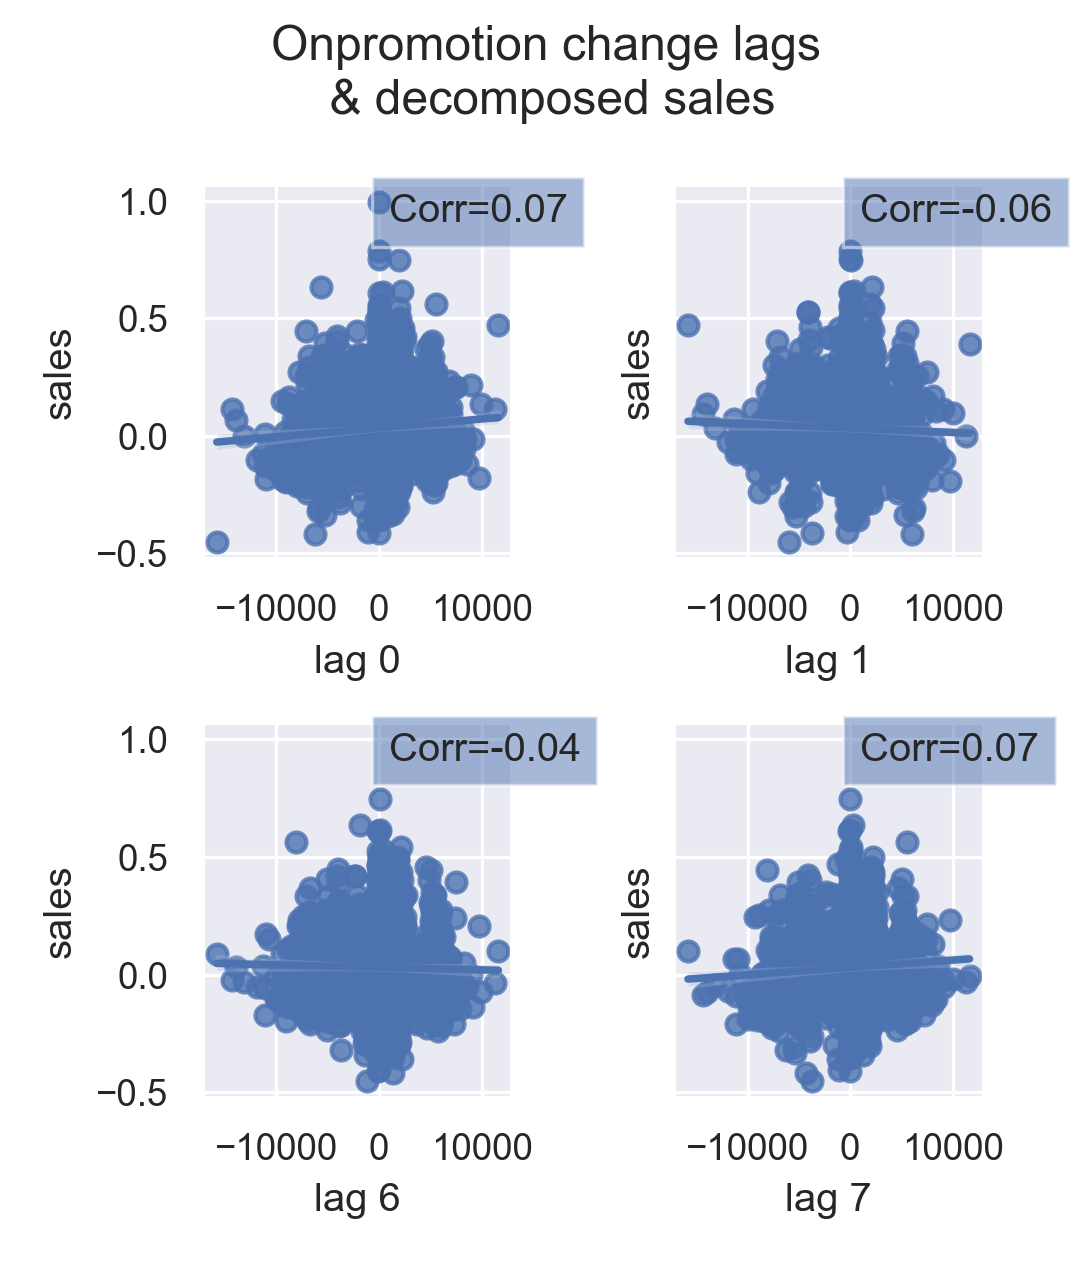
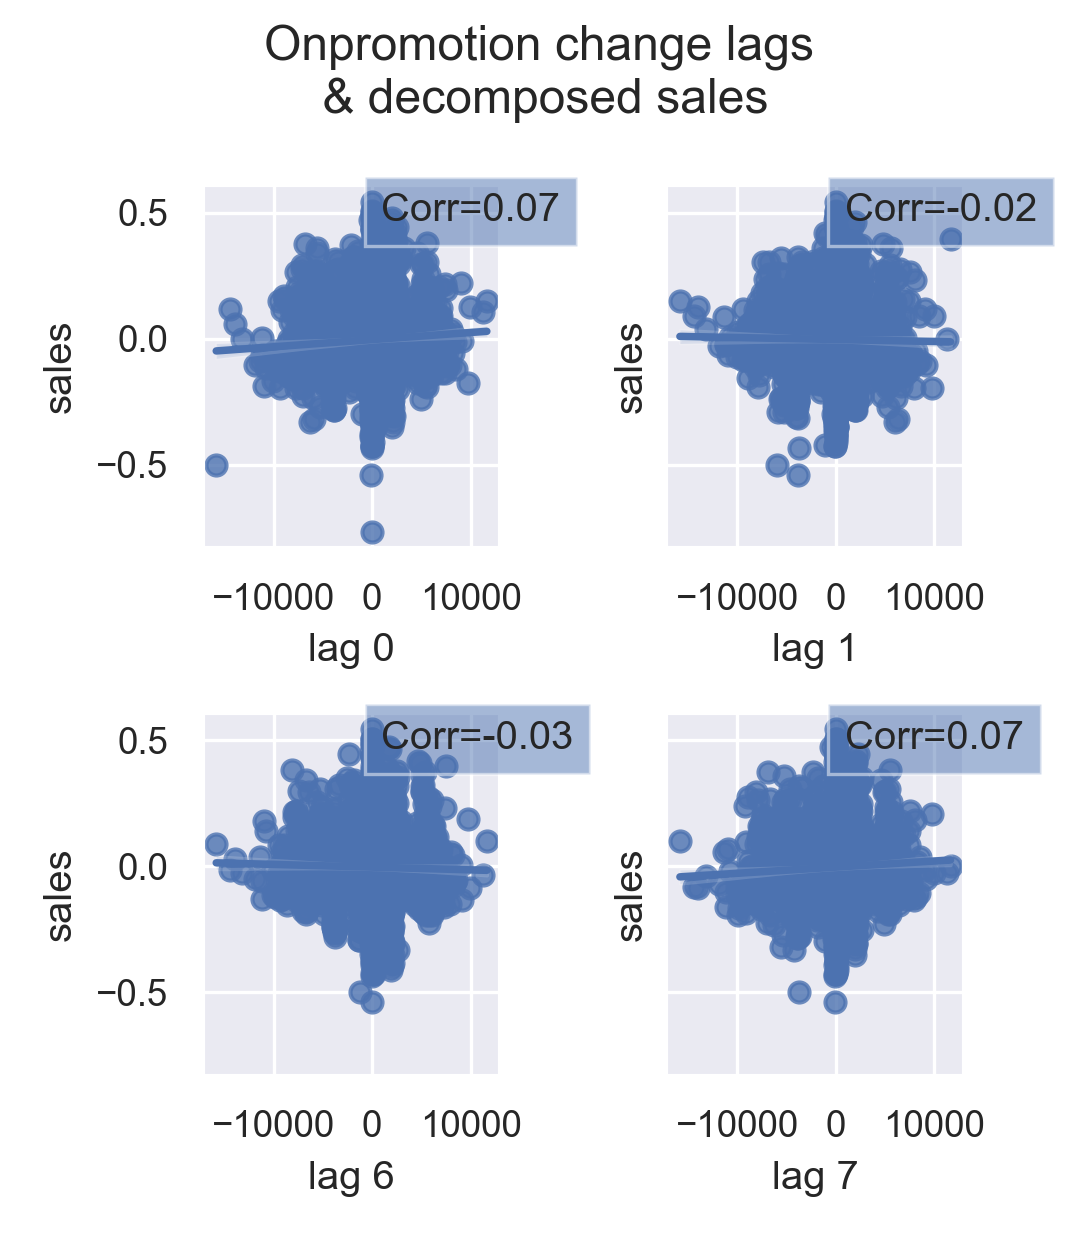
Finish final analysis & scripts

diff --git a/ModelLags.py b/ModelLags.py
@@ -25,37 +25,49 @@ sns.set_theme(context="paper")
 from darts import TimeSeries
 df_train = pd.read_csv(
   "./ModifiedData/Final/train_modified_timefeats.csv", encoding="utf-8")
+  
+# Set index
 df_train = df_train.set_index(pd.to_datetime(df_train.date))
 df_train = df_train.drop("date", axis=1)
+
+# Retrieve daily sales
 total_sales = df_train.groupby("date").sales.sum()
+
+# Make darts time series
 ts_orig = TimeSeries.from_series(total_sales, freq="D")
+
+# Fill gaps
 from darts.dataprocessing.transformers import MissingValuesFiller
 na_filler = MissingValuesFiller()
 ts_orig = na_filler.transform(ts_orig)
 
 
-# Load 14-17 decomposed sales and covariates
+# Load 13-17 decomposed sales and covariates
 sales_covars = pd.read_csv(
   "./ModifiedData/Final/sales_decomped_feats.csv", encoding="utf-8")
-
 
 # Set datetime index
 sales_covars = sales_covars.set_index(pd.to_datetime(sales_covars.date, dayfirst=True))
 sales_covars = sales_covars.drop("date", axis=1)
 
-
 # Create darts time series from decomposed sales sales series
 ts = TimeSeries.from_series(sales_covars["sales"], freq="D")
 
-
 # Make Darts time series with lags & covariates
 ts_covars = TimeSeries.from_dataframe(
-  sales_covars[["oil_ma336", "trns_ma7"]], freq="D", fill_missing_dates=False)
+  sales_covars[["sales_ema7", "oil_ma28", "trns_ma7"]], freq="D", fill_missing_dates=False)
 
 
-# Load 14-17 time preds, make darts series
-preds_time = TimeSeries.from_csv(
-  "./ModifiedData/Final/preds_model1.csv", time_col = "time", freq = "D")
+# Load 13-17 time preds, make darts series
+preds_time = pd.read_csv(
+  "./ModifiedData/Final/preds_model1.csv", encoding="utf-8")
+  
+# Set datetime index
+preds_time = preds_time.set_index(pd.to_datetime(preds_time.date, dayfirst=True))
+preds_time = preds_time.drop("date", axis=1)
+
+# Create darts time series from time model predictions series
+preds_time = TimeSeries.from_series(preds_time["sales"], freq="D")
 
 
 # Define functions to perform log transformation and reverse it
@@ -172,18 +184,63 @@ fig14.savefig("./Plots/LagsModel/2017test.png", dpi=300)
 plt.close("all")
 
 
-# Go back to ModelTime's end
+# Retrieve historical forecasts & residuals for linear + random forest
 
-# Perform decomposition in Sklearn:
-  # Fit, predict and retrieve residuals for 2013-2016 (train)
-  # Predict and retrieve residuals for 2017 (valid)
-  # Add them together and export them, use the preds as model 1 preds, and residuals as model 2 train
+# Fit scaler on 2013
+scaler.fit(ts_covars[:365])
 
-# Redo Lags EDA with Sklearn decomposed residuals
+# Predict historical forecasts for 2014-2017
+pred_forest_hist = model_forest.historical_forecasts(
+  ts, 
+  future_covariates = scaler.transform(ts_covars), start = 365, stride = 1,
+  verbose = True) + preds_time[365:]
 
-# Redo ModelLags with new features, Sklearn time preds and decomposed residuals
+# Retrieve residuals for 2014-2017
+res_forest_hist = trafo_log(ts_orig[365:]) - pred_forest_hist
+
+# Score historical forecasts for linear + random_forest
+# Model: Linear + random forest
+# RMSE: 64016.6324
+# RMSLE: 0.0971
+# MAPE: 7.0301
+perf_scores(trafo_log(ts_orig[365:]), pred_forest_hist, model="Linear + random forest")
 
 
+# Plot historical forecasts for random forest
+ts_orig.plot(label="Actual")
+trafo_exp(pred_forest_hist).plot(label="Predicted")
+plt.title("Linear regression + random forest hybrid model,\n historical forecasts")
+plt.ylabel("sales")
+plt.show()
+plt.savefig("./Plots/LagsModel/RFHistorical.png", dpi=300)
+plt.close("all")
 
+
+# Diagnose decomped sales innovation residuals
+from darts.utils.statistics import plot_residuals_analysis, plot_pacf
+plot_residuals_analysis(res_forest_hist)
+plt.show()
+plt.savefig("./Plots/LagsModel/InnoResidsDiag.png", dpi=300)
+plt.close("all")
+
+
+# PACF plot of decomped sales residuals
+plot_pacf(res_forest_hist, max_lag=56)
+plt.title("Partial autocorrelation plot,\n final hybrid model")
+plt.xlabel("Lags")
+plt.ylabel("PACF")
+plt.xticks(np.arange(0, 56, 10))
+plt.xticks(np.arange(0, 56, 1), minor=True)
+plt.grid(which='minor', alpha=0.5)
+plt.grid(which='major', alpha=1)
+plt.show()
+plt.savefig("./Plots/LagsModel/PACFInnoResids.png", dpi=300)
+plt.close("all")
+
+
+# KPSS and ADF stationarity test on decomped sales residuals
+from darts.utils.statistics import stationarity_test_kpss, stationarity_test_adf
+stationarity_test_kpss(res_forest_hist) # Null accepted, data is stationary
+stationarity_test_adf(res_forest_hist) # Null rejected, data is stationary around a constant
 
 

diff --git a/EDALags.py b/EDALags.py
@@ -34,7 +34,7 @@ df_train = df_train.drop("date", axis=1)
 # Load decomposed total sales
 sales_decomposed = pd.read_csv(
   "./ModifiedData/Final/sales_decomped.csv", encoding = "utf-8")
-sales_decomposed = sales_decomposed.set_index(pd.to_datetime(sales_decomposed.date))
+sales_decomposed = sales_decomposed.set_index(pd.to_datetime(sales_decomposed.date, dayfirst=True))
 sales_decomposed = sales_decomposed.drop("date", axis=1)
   
 # Aggregate covariates from df_train: oil, onpromotion, transactions
@@ -86,7 +86,7 @@ plt.close("all")
 
 # FIG9: Sales lag scatterplots
 fig9, axes9 = plot_lags(
-  sales_covariates["sales"], lags = [1,2,3,4,5,6,7,8, 9],
+  sales_covariates["sales"], lags = [1,2,3,4,5,6,7,8,9],
   suptitle = "Sales lags")
   
 # Show fig9
@@ -95,28 +95,28 @@ fig9.savefig("./Plots/LagsEDA/SalesLags.png", dpi=300)
 plt.close("all")
 
 
-# Calculate 8-day exponential moving average of sales lags
-sales_covariates["sales_ema8"] = sales_covariates["sales"].rolling(
-  window = 8, min_periods = 1, center = False, win_type = "exponential").mean()
+# Calculate 7-day exponential moving average of sales lags
+sales_covariates["sales_ema7"] = sales_covariates["sales"].rolling(
+  window = 7, min_periods = 1, center = False, win_type = "exponential").mean()
 
 
-# Plot sales_ema8 vs sales  
+# Plot sales_ema7 vs sales  
 sns.regplot(
   data = sales_covariates,
-  x = "sales_ema8",
+  x = "sales_ema7",
   y = "sales"
 )
-plt.title("Relationship of sales and 8-day\n exponential moving average of sales")
+plt.title("Relationship of sales and 7-day\n exponential moving average of sales")
 plt.show()
-plt.savefig("./Plots/LagsEDA/SalesEma8.png", dpi=300)
+plt.savefig("./Plots/LagsEDA/SalesEma7.png", dpi=300)
 plt.close("all")
 
 
 # Compare correlations of sales with lag 1 and sales_ema8
-pearsonr(sales_covariates["sales"], sales_covariates["sales"].shift(1).fillna(method="bfill")) # 0.8
-spearmanr(sales_covariates["sales"], sales_covariates["sales"].shift(1).fillna(method="bfill")) # 0.81
-pearsonr(sales_covariates["sales"], sales_covariates["sales_ema8"]) #0.7
-spearmanr(sales_covariates["sales"], sales_covariates["sales_ema8"]) #0.7
+pearsonr(sales_covariates["sales"], sales_covariates["sales"].shift(1).fillna(method="bfill")) # 0.79
+spearmanr(sales_covariates["sales"], sales_covariates["sales"].shift(1).fillna(method="bfill")) # 0.80
+pearsonr(sales_covariates["sales"], sales_covariates["sales_ema7"]) #0.68
+spearmanr(sales_covariates["sales"], sales_covariates["sales_ema7"]) #0.68
 
 
 # FIG10: Regplots of oil moving averages & sales
@@ -229,15 +229,15 @@ fig10.savefig("./Plots/LagsEDA/OilMAs.png", dpi=300)
 plt.close("all")
 
 
-# Keep annual oil MA, filling in NAs
-sales_covariates["oil_ma336"] = sales_covariates["oil"].rolling(window = 336, center = False).mean()
+# Keep monthly oil MA, filling in NAs
+sales_covariates["oil_ma28"] = sales_covariates["oil"].rolling(window = 28, center = False).mean()
 
-# Backwards spline interpolation
-sales_covariates["oil_ma336"] = sales_covariates["oil_ma336"].interpolate("spline", order = 3, limit_direction = "backward")
+# Backwards linear interpolation
+sales_covariates["oil_ma28"] = sales_covariates["oil_ma28"].interpolate("linear", limit_direction = "backward")
 
 # Check quality of interpolation
 sales_covariates["oil"].plot()
-sales_covariates["oil_ma336"].plot()
+sales_covariates["oil_ma28"].plot()
 plt.show()
 plt.close("all")
 
@@ -400,7 +400,7 @@ plt.close("all")
 # Cross-correlation of sales & transactions
 plt.xcorr(sales_covariates["sales"], sales_covariates["transactions"], usevlines=True, maxlags=56, normed=True)
 plt.grid(True)
-plt.ylim([-0.1, 0.1])
+plt.ylim([-0.15, 0.15])
 plt.axvline(x = -14, color = "red", linestyle = "dashed")
 plt.xlabel("transactions lags / leads")
 plt.title("Cross-correlation, decomposed sales\n & differenced transactions")

diff --git a/ModelTime.py b/ModelTime.py
@@ -61,7 +61,8 @@ dp = DeterministicProcess(
   order = 0,
   seasonal = False,
   period = 28,
-  fourier = 5 
+  fourier = 5,
+  drop = True
 )
 time_feats = time_feats.merge(dp.in_sample(), how="left", on="date")
 
@@ -171,7 +172,7 @@ plt.close("all")
 
 
 # Backtest linear regression
-# array([78298.2808,     0.1552,    20.0684])
+# array([78469.0625,     0.1561,    20.5266])
 model_linear.backtest(
   ts, 
   future_covariates = ts_timefeats, 
@@ -226,13 +227,42 @@ stationarity_test_kpss(res_linear) # Null rejected, data is non-stationary
 stationarity_test_adf(res_linear) # Null rejected, data is stationary around a constant
 
 
-# Save 14-17 decomposed sales for lags & covariates model
-res_linear.pd_dataframe().to_csv(
-  "./ModifiedData/Final/sales_decomped.csv", index=True, encoding="utf-8")
+# Perform full decomposition in Sklearn: Train on 13-16, retrieve fitted & resid,
+# predict 17, retrieve predicted & resid, add them all
+
+# Retrieve Darts target and features with filled gaps
+total_sales = ts.pd_series()
+time_feats = ts_timefeats.pd_dataframe()
+
+# Train-test split
+y_train, y_val = trafo_log(total_sales[:-227]), trafo_log(total_sales[-227:])
+x_train, x_val = time_feats.iloc[:-227,], time_feats.iloc[-227:,]
+
+# Fit & predict on 13-16
+from sklearn.linear_model import LinearRegression
+model_linear = LinearRegression()
+model_linear.fit(x_train, y_train)
+pred1 = model_linear.predict(x_train)
+res1 = y_train - pred1
+
+# Predict on 17
+pred2 = model_linear.predict(x_val)
+res2 = y_val - pred2
+
+# Concat residuals to get decomposed sales
+sales_decomp = pd.concat([res1, res2])
+
+# Concat preds to get model 1 predictions
+preds_model1 = pd.Series(np.concatenate((pred1, pred2)), index = sales_decomp.index)
 
 
-# Save 14-17 predictions of model 1
-pred_linear_hist.pd_dataframe().to_csv(
-  "./ModifiedData/Final/preds_model1.csv", index=True, encoding="utf-8")
+# Save 13-17 decomposed sales for lags & covariates model
+sales_decomp.to_csv(
+  "./ModifiedData/Final/sales_decomped.csv", index=True, header=["sales"], encoding="utf-8")
+
+
+# Save 13-17 predictions of model 1
+preds_model1.to_csv(
+  "./ModifiedData/Final/preds_model1.csv", index=True, header=["sales"], encoding="utf-8")
 
 

diff --git a/FeatEngTime.py b/FeatEngTime.py
@@ -25,9 +25,11 @@ df = df.set_index(pd.to_datetime(df.date))
 df = df.drop("date", axis=1)
 
 
-# New year's day feature
+# New year's day features
 df["ny1"] = ((df.index.day == 1) & (df.index.month == 1)).astype(int)
 df.loc[df["ny1"] == 1, ["local_holiday", "regional_holiday", "national_holiday"]] = 0
+df["ny2"] = ((df.index.day == 2) & (df.index.month == 1)).astype(int)
+df.loc[df["ny2"] == 1, ["local_holiday", "regional_holiday", "national_holiday"]] = 0
 
 
 # Christmas-December features 

diff --git a/JunkCode.py b/JunkCode.py
@@ -489,3 +489,5 @@ pred_linear.pd_dataframe().to_csv(
 preds_time17 = TimeSeries.from_csv(
   "./ModifiedData/Final/preds_model1_17.csv", time_col = "date", freq = "D")
 
+
+sales_covariates["oil_ma336"] = sales_covariates["oil_ma336"].interpolate("spline", order = 3, limit_direction = "backward")
